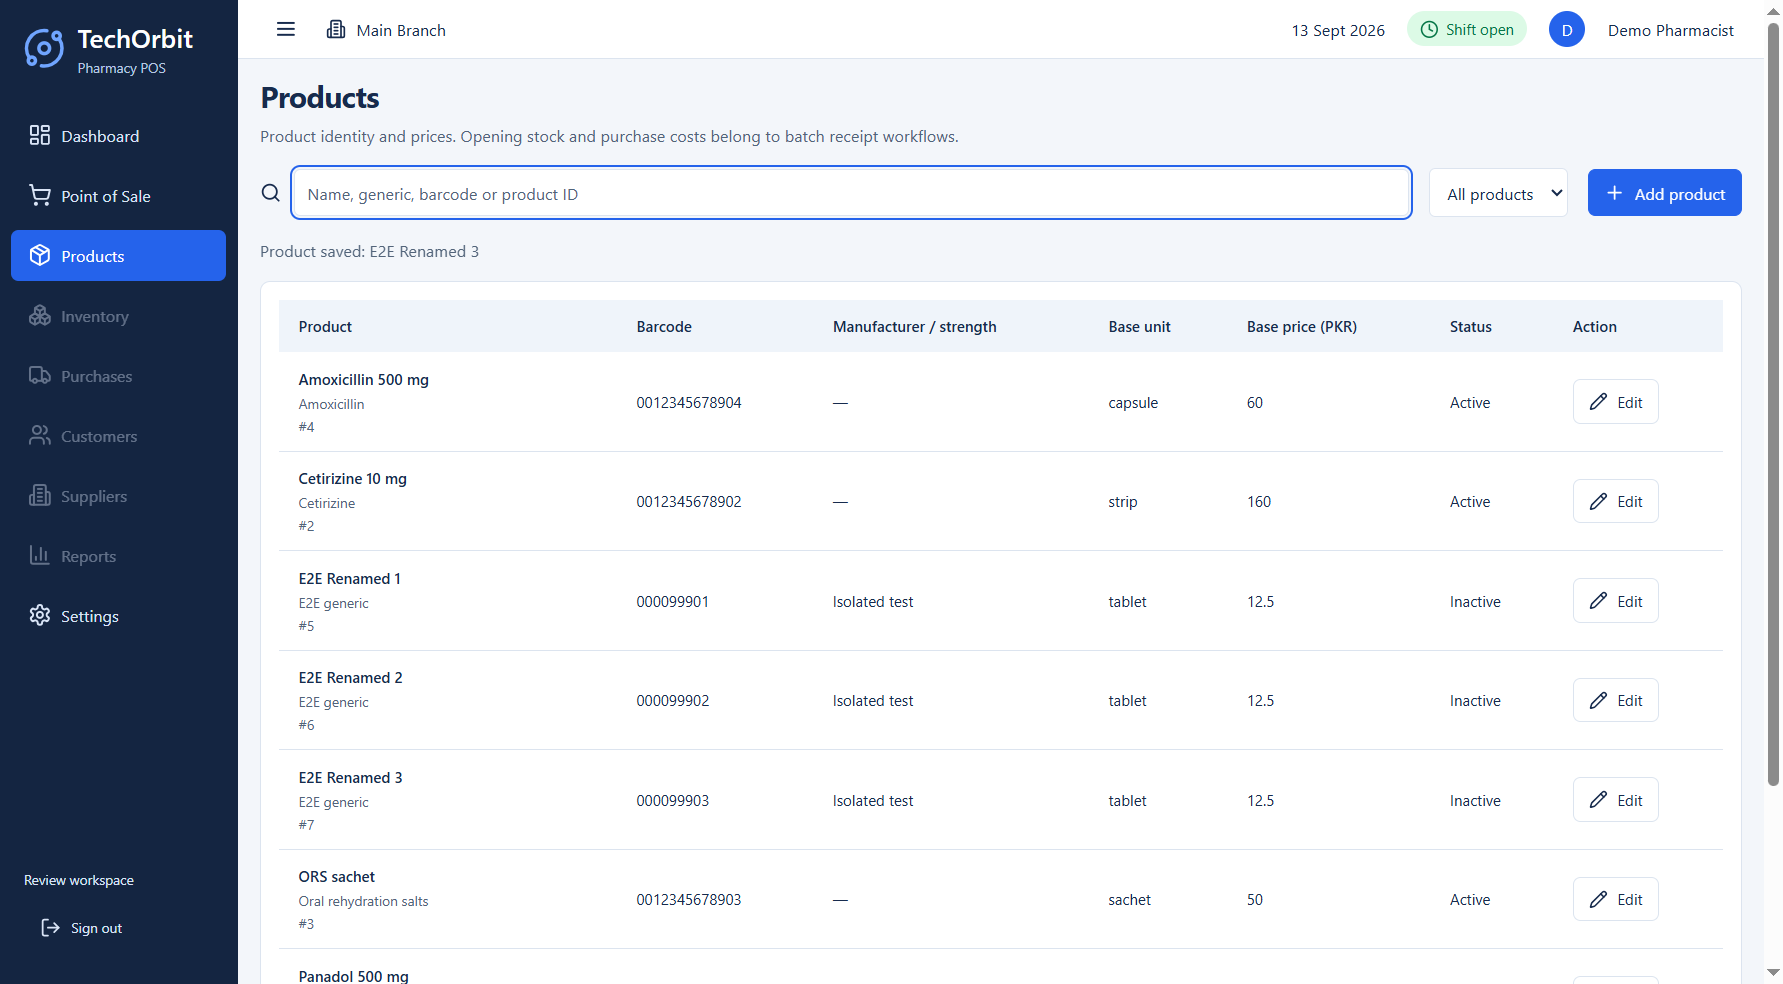
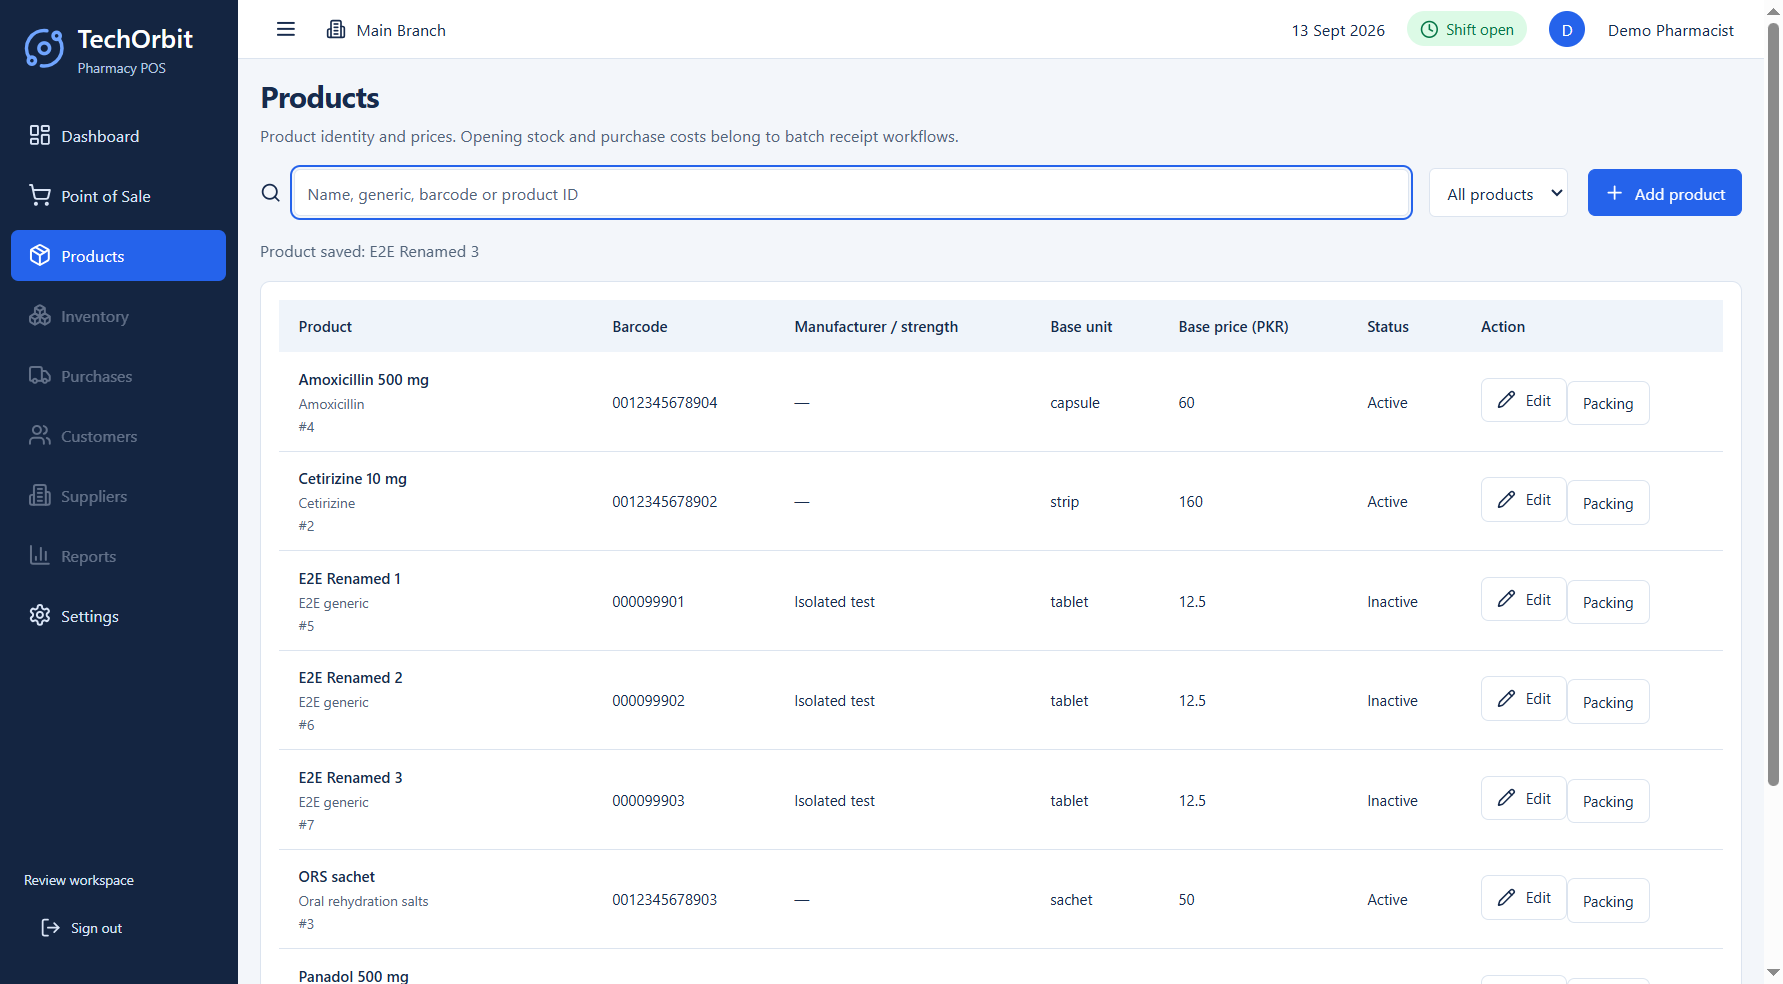
feat(products): configure safe pack ratios and unit prices

diff --git a/modernization/src/Products.tsx b/modernization/src/Products.tsx
@@ -2,10 +2,12 @@ import {useEffect,useRef,useState} from 'react';
 import {Plus,Search,Pencil} from 'lucide-react';
 import type {ProductSummary,ProductMasterResult} from './contracts';
 import {Dialog,money} from './shared';
+import {PackingEditor} from './Packing';
 type Fields=Record<string,string|boolean>;
 const blank=():Fields=>({createKey:'TO-'+crypto.randomUUID(),name:'',barcode:'',genericName:'',manufacturer:'',category:'',productType:'medicine',dosageForm:'Tablet',strength:'',packDescription:'',baseUnit:'tablet',defaultSalePriceMinor:'0',boxSalePriceMinor:'',stripSalePriceMinor:'',minimumStock:'0',reorderLevel:'0',defaultSupplierId:'',prescriptionRequired:false,controlledMedicine:false,gstRateBasisPoints:'0',taxStatus:'exempt',active:true,notes:''});
 export function Products(){
  const [q,setQ]=useState(''),[state,setState]=useState('active'),[page,setPage]=useState(1),[version,reload]=useState(0),[rows,setRows]=useState<ProductSummary[]>([]),[total,setTotal]=useState(0),[loading,setLoading]=useState(true),[error,setError]=useState(''),[editor,setEditor]=useState<Fields|null>(null),[suppliers,setSuppliers]=useState<{id:number;name:string}[]>([]),[busy,setBusy]=useState(false),[saveError,setSaveError]=useState(''),[confirm,setConfirm]=useState(false),[warning,setWarning]=useState(''),[saved,setSaved]=useState('');
+ const [packingId,setPackingId]=useState<number|null>(null);
  const lock=useRef(false);
  useEffect(()=>{let live=true;setLoading(true);setError('');const t=setTimeout(()=>window.pharmacy.productList({q,state,page}).then(r=>{if(live){setRows(r.items);setTotal(r.total)}}).catch(e=>{if(live){setError(e.message);setRows([]);setTotal(0)}}).finally(()=>{if(live)setLoading(false)}),150);return()=>{live=false;clearTimeout(t)}},[q,state,page,version]);
  const open=async(id?:number)=>{setSaveError('');setWarning('');setConfirm(false);try{setSuppliers(await window.pharmacy.productSuppliers());if(id){const result=await window.pharmacy.productDetail({id});const value:Fields={};for(const[k,v]of Object.entries(result.product||{}))value[k]=typeof v==='boolean'?v:v==null?'':String(k.endsWith('PriceMinor')||k==='gstRateBasisPoints'?Number(v)/100:v);setEditor(value)}else setEditor(blank());}catch(e){setError((e as Error).message)}};
@@ -14,6 +16,7 @@ export function Products(){
  const select=(key:string,label:string,values:string[])=><label key={key}>{label}<select aria-label={label} value={String(editor?.[key]||'')} disabled={busy} onChange={e=>change(key,e.target.value)}>{values.map(v=><option key={v} value={v}>{v}</option>)}</select></label>;
  const save=async(event:React.FormEvent)=>{event.preventDefault();if(lock.current||!editor)return;lock.current=true;setBusy(true);setSaveError('');const input:Record<string,unknown>={...editor,confirmDuplicateName:confirm};for(const k of ['defaultSalePriceMinor','boxSalePriceMinor','stripSalePriceMinor','gstRateBasisPoints'])input[k]=editor[k]===''?null:Math.round(Number(editor[k])*100);for(const k of ['minimumStock','reorderLevel'])input[k]=Number(editor[k]);input.defaultSupplierId=editor.defaultSupplierId?Number(editor.defaultSupplierId):null;if(editor.id)input.id=Number(editor.id);
  try{const r:ProductMasterResult=await window.pharmacy.productSave(input);if(r.needsConfirmation){setWarning('An active product has the same name. Check manufacturer and strength before confirming a separate product.');return;}setSaved('Product saved: '+r.product?.name);setEditor(null);reload(v=>v+1);}catch(e){setSaveError((e as Error).message)}finally{lock.current=false;setBusy(false)}};
- return <section className="products-page"><h1>Products</h1><p>Product identity and prices. Opening stock and purchase costs belong to batch receipt workflows.</p><div className="master-toolbar"><label><Search size={17}/><input aria-label="Search products" placeholder="Name, generic, barcode or product ID" value={q} onChange={e=>{setQ(e.target.value);setPage(1)}}/></label><select aria-label="Product status filter" value={state} onChange={e=>{setState(e.target.value);setPage(1)}}><option value="active">Active</option><option value="inactive">Inactive</option><option value="all">All products</option></select><button className="primary" onClick={()=>open()}><Plus size={17}/> Add product</button></div>{error&&<p className="error" role="alert">{error}</p>}{saved&&<p role="status">{saved}</p>}<div className="panel master-table"><table><thead><tr><th>Product</th><th>Barcode</th><th>Manufacturer / strength</th><th>Base unit</th><th>Base price (PKR)</th><th>Status</th><th>Action</th></tr></thead><tbody>{!loading&&rows.map(p=><tr key={p.id}><td><strong>{p.name}</strong><small>{p.generic_name||'—'}</small><small>#{p.id}</small></td><td>{p.barcode||'No barcode'}</td><td>{[p.manufacturer,p.strength].filter(Boolean).join(' · ')||'—'}</td><td>{p.base_unit}</td><td>{money(p.default_sale_price_minor)}</td><td>{p.active?'Active':'Inactive'}</td><td><button aria-label={'Edit '+p.name} onClick={()=>open(p.id)}><Pencil size={15}/> Edit</button></td></tr>)}</tbody></table>{loading?<p role="status">Loading products…</p>:!rows.length&&<p>No products found.</p>}</div><div className="master-pagination"><button disabled={loading||page===1} onClick={()=>setPage(p=>p-1)}>Previous</button><span>{total} products · Page {page} of {Math.max(1,Math.ceil(total/25))}</span><button disabled={loading||page*25>=total} onClick={()=>setPage(p=>p+1)}>Next</button></div>
+ return <section className="products-page"><h1>Products</h1><p>Product identity and prices. Opening stock and purchase costs belong to batch receipt workflows.</p><div className="master-toolbar"><label><Search size={17}/><input aria-label="Search products" placeholder="Name, generic, barcode or product ID" value={q} onChange={e=>{setQ(e.target.value);setPage(1)}}/></label><select aria-label="Product status filter" value={state} onChange={e=>{setState(e.target.value);setPage(1)}}><option value="active">Active</option><option value="inactive">Inactive</option><option value="all">All products</option></select><button className="primary" onClick={()=>open()}><Plus size={17}/> Add product</button></div>{error&&<p className="error" role="alert">{error}</p>}{saved&&<p role="status">{saved}</p>}<div className="panel master-table"><table><thead><tr><th>Product</th><th>Barcode</th><th>Manufacturer / strength</th><th>Base unit</th><th>Base price (PKR)</th><th>Status</th><th>Action</th></tr></thead><tbody>{!loading&&rows.map(p=><tr key={p.id}><td><strong>{p.name}</strong><small>{p.generic_name||'—'}</small><small>#{p.id}</small></td><td>{p.barcode||'No barcode'}</td><td>{[p.manufacturer,p.strength].filter(Boolean).join(' · ')||'—'}</td><td>{p.base_unit}</td><td>{money(p.default_sale_price_minor)}</td><td>{p.active?'Active':'Inactive'}</td><td><button aria-label={'Edit '+p.name} onClick={()=>open(p.id)}><Pencil size={15}/> Edit</button><button aria-label={'Packing '+p.name} onClick={()=>setPackingId(p.id)}>Packing</button></td></tr>)}</tbody></table>{loading?<p role="status">Loading products…</p>:!rows.length&&<p>No products found.</p>}</div><div className="master-pagination"><button disabled={loading||page===1} onClick={()=>setPage(p=>p-1)}>Previous</button><span>{total} products · Page {page} of {Math.max(1,Math.ceil(total/25))}</span><button disabled={loading||page*25>=total} onClick={()=>setPage(p=>p+1)}>Next</button></div>
+ {packingId!==null&&<PackingEditor id={packingId} onClose={()=>setPackingId(null)} onSaved={()=>{setPackingId(null);reload(v=>v+1)}}/>}
  {editor&&<Dialog title={editor.id?'Edit product':'Add product'} onClose={()=>{if(!lock.current)setEditor(null)}}><form className="product-form" onSubmit={save}><p>{editor.id?'Product #'+editor.id+' · Base unit locked to protect existing stock.':'Permanent product ID is generated automatically.'}</p><div className="product-fields">{field('name','Product name','text',true)}{field('barcode','Barcode')}{field('genericName','Generic name')}{field('manufacturer','Manufacturer')}{field('category','Category')}{select('productType','Product type',['medicine','general','cosmetic','device','other'])}{select('dosageForm','Dosage form',['Tablet','Capsule','Syrup','Injection','Cream','Drops','Sachet','Ointment','Suspension','Inhaler','Device','Other'])}{field('strength','Strength')}{field('packDescription','Pack description')}{field('baseUnit','Base unit','text',true)}{field('defaultSalePriceMinor','Base selling price PKR','number',true)}{field('boxSalePriceMinor','Box selling price PKR','number')}{field('stripSalePriceMinor','Strip selling price PKR','number')}{field('minimumStock','Minimum stock (base units)','number',true)}{field('reorderLevel','Reorder level (base units)','number',true)}{select('taxStatus','Tax status',['exempt','taxable'])}{field('gstRateBasisPoints','GST percent','number',true)}<label>Default supplier<select aria-label="Default supplier" value={String(editor.defaultSupplierId)} disabled={busy} onChange={e=>change('defaultSupplierId',e.target.value)}><option value="">None</option>{suppliers.map(s=><option key={s.id} value={s.id}>{s.name}</option>)}</select></label>{field('notes','Notes')}</div><div className="product-flags">{[['active','Active product'],['prescriptionRequired','Prescription required'],['controlledMedicine','Controlled medicine']].map(([k,l])=><label key={k}><input type="checkbox" checked={Boolean(editor[k])} disabled={busy} onChange={e=>change(k,e.target.checked)}/>{l}</label>)}</div><p>Deactivation hides the product from new sales and preserves its history. Pack conversions are configured separately.</p>{warning&&<div className="warning"><p>{warning}</p><label><input type="checkbox" checked={confirm} onChange={e=>setConfirm(e.target.checked)}/>I confirm this is a separate product</label></div>}{saveError&&<p className="error" role="alert">{saveError}</p>}<button type="submit" className="primary" disabled={busy||Boolean(warning&&!confirm)}>{busy?'Saving…':'Save product'}</button></form></Dialog>}</section>
 }

diff --git a/modernization/src/Packing.tsx b/modernization/src/Packing.tsx
@@ -1,0 +1,12 @@
+import {useEffect,useRef,useState} from 'react';
+import {Dialog} from './shared';
+type Unit={unitName:string;baseQuantity:string;price:string;isDefaultSaleUnit:boolean;allowsFractionalQuantity:boolean};
+export function PackingEditor({id,onClose,onSaved}:{id:number;onClose:()=>void;onSaved:()=>void}){
+ const [units,setUnits]=useState<Unit[]>([]),[name,setName]=useState(''),[base,setBase]=useState(''),[stamp,setStamp]=useState(''),[locked,setLocked]=useState(false),[oldNames,setOldNames]=useState<string[]>([]),[error,setError]=useState(''),[busy,setBusy]=useState(false),[source,setSource]=useState(0);
+ const saving=useRef(false);
+ useEffect(()=>{let live=true;window.pharmacy.packingDetail({id}).then(r=>{if(!live)return;setName(String(r.product?.name));setBase(String(r.product?.baseUnit));setStamp(String(r.product?.updatedAt));setLocked(r.historyLocked);setOldNames((r.units||[]).map(u=>u.unit_name));setUnits((r.units||[]).map(u=>({unitName:u.unit_name,baseQuantity:String(u.base_quantity),price:String((u.selling_price_minor??Number(r.product?.defaultSalePriceMinor))/100),isDefaultSaleUnit:Boolean(u.is_default_sale_unit),allowsFractionalQuantity:Boolean(u.allows_fractional_quantity)})));}).catch(e=>{if(live)setError(e.message)});return()=>{live=false}},[id]);
+ const change=(i:number,patch:Partial<Unit>)=>setUnits(rows=>rows.map((u,j)=>j===i?{...u,...patch}:u));
+ const derive=()=>{const s=units[source],ratio=Number(s?.baseQuantity),price=Number(s?.price);if(!s||!s.price||!Number.isFinite(ratio)||ratio<=0||!Number.isFinite(price)||price<0){setError('Enter a valid source unit quantity and price first.');return;}setError('');setUnits(rows=>rows.map(u=>({...u,price:String(Math.round(price*Number(u.baseQuantity)/ratio))})));};
+ const save=async(e:React.FormEvent)=>{e.preventDefault();if(saving.current)return;saving.current=true;setBusy(true);setError('');try{await window.pharmacy.packingSave({id,updatedAt:stamp,units:units.map(u=>({...u,baseQuantity:Number(u.baseQuantity),sellingPriceMinor:Math.round(Number(u.price)*100)}))});onSaved();}catch(e){setError((e as Error).message)}finally{saving.current=false;setBusy(false)}};
+ return <Dialog title={'Packing and prices'+(name?' — '+name:'')} onClose={()=>{if(!saving.current)onClose()}}><form onSubmit={save} className="packing-form"><p>Base unit: <strong>{base||'Loading…'}</strong>. Each quantity below is measured in this base unit. Example: 1 strip = 10 tablets, 1 box = 100 tablets.</p>{locked&&<p className="warning">This product has stock or history. Existing unit names and ratios are locked. New units and future selling prices can be configured without rebasing stock.</p>}<div className="packing-rows">{units.map((u,i)=>{const fixed=locked&&oldNames.includes(u.unitName);return <fieldset key={i} disabled={busy}><legend>Unit {i+1}</legend><label>Unit name<input aria-label={'Unit name '+(i+1)} required value={u.unitName} disabled={fixed||u.unitName===base} onChange={e=>change(i,{unitName:e.target.value})}/></label><label>Base quantity<input aria-label={'Base quantity '+(i+1)} required type="number" min="0.000001" step="any" disabled={fixed||u.unitName===base} value={u.baseQuantity} onChange={e=>change(i,{baseQuantity:e.target.value})}/></label><label>Price PKR<input aria-label={'Unit price '+(i+1)} required type="number" min="0" step="any" value={u.price} onChange={e=>change(i,{price:e.target.value})}/></label><label><input type="radio" name="default-unit" aria-label={'Default unit '+(i+1)} checked={u.isDefaultSaleUnit} onChange={()=>setUnits(rows=>rows.map((x,j)=>({...x,isDefaultSaleUnit:i===j})))}/>Default</label><label><input type="checkbox" aria-label={'Allow fractional '+(i+1)} checked={u.allowsFractionalQuantity} onChange={e=>change(i,{allowsFractionalQuantity:e.target.checked})}/>Fractional</label><button type="button" aria-label={'Remove unit '+(i+1)} disabled={fixed||u.unitName===base} onClick={()=>{setUnits(rows=>rows.filter((_,j)=>j!==i));setSource(0)}}>Remove</button></fieldset>})}</div><button type="button" disabled={busy||!stamp||units.length>=20} onClick={()=>setUnits(rows=>[...rows,{unitName:'',baseQuantity:'1',price:'0',isDefaultSaleUnit:false,allowsFractionalQuantity:false}])}>Add unit</button><div className="packing-calculate"><label>Calculate from<select aria-label="Price source unit" value={source} onChange={e=>setSource(Number(e.target.value))}>{units.map((u,i)=><option value={i} key={i}>{u.unitName||'Unit '+(i+1)}</option>)}</select></label><button type="button" disabled={busy||!units.length} onClick={derive}>Calculate other prices</button></div><p>Calculated and saved prices round to whole PKR. Calculating replaces the displayed prices; you can override them before saving. Recalculate explicitly after changing ratios or the source price. Sealed units and capsules cannot be sold fractionally.</p>{error&&<p role="alert" className="error">{error}</p>}<button className="primary" type="submit" disabled={busy||!stamp}>{busy?'Saving…':'Save packing'}</button></form></Dialog>;
+}

diff --git a/modernization/src/styles.css b/modernization/src/styles.css
@@ -1039,3 +1039,7 @@ body:has(.scrim) {
 .master-table{overflow:auto}.master-table table{width:100%;border-collapse:collapse}.master-table td,.master-table th{padding:13px 16px;text-align:left}.master-table td small{display:block;margin-top:4px}.master-table td:first-child{min-width:200px}
 .product-fields{display:grid;grid-template-columns:repeat(2,minmax(0,1fr));gap:15px 22px}.product-fields label{display:flex;flex-direction:column;gap:6px}.product-fields input,.product-fields select{width:100%;min-width:0}.product-flags label{display:flex;align-items:center;gap:8px}.product-form>p{line-height:1.5}.scrim:has(.product-form) .dialog{width:min(940px,95vw);max-height:90vh;overflow:auto}.product-form>button{margin-top:12px}
 @media(max-width:700px){.product-fields{grid-template-columns:1fr}}
+.scrim:has(.packing-form) .dialog{width:min(1000px,95vw);max-height:90vh;overflow:auto}
+.packing-rows fieldset{display:grid;grid-template-columns:minmax(0,1.2fr) minmax(0,1fr) minmax(0,1fr) auto auto auto;gap:12px;align-items:end;border:1px solid var(--border);margin:12px 0;padding:12px;min-width:0}
+.packing-form label{display:flex;flex-direction:column;gap:7px;min-width:0}.packing-form input,.packing-form select{max-width:100%;min-width:0}.packing-form input:not([type=checkbox]):not([type=radio]){width:100%}.packing-calculate{display:flex;gap:12px;align-items:end;margin-top:16px}
+@media(max-width:1100px){.packing-rows fieldset{grid-template-columns:1fr 1fr 1fr}}

diff --git a/modernization/src/contracts.ts b/modernization/src/contracts.ts
@@ -97,6 +97,8 @@ export interface DashboardData {
   recent: any[];
 }
 export interface Api {
+  packingDetail(input:{id:number}):Promise<ProductMasterResult & {historyLocked:boolean}>;
+  packingSave(input:Record<string,unknown>):Promise<ProductMasterResult & {historyLocked:boolean}>;
   productList(input:{q:string;state:string;page:number}):Promise<{items:ProductSummary[];total:number;page:number;pageSize:number}>;
   productDetail(input:{id:number}):Promise<ProductMasterResult>;
   productSave(input:Record<string,unknown>):Promise<ProductMasterResult>;

diff --git a/docs/p030-packing.md b/docs/p030-packing.md
@@ -1,0 +1,25 @@
+# P030 Packing and prices — 2026-09-13
+
+## Delivered
+
+Products rows open a packing editor. Each configured unit has its base-quantity multiplier, explicit selling price, default-sale flag and fractional policy. Ratios are expressed against the permanent product base unit; no manufacturer values are inferred. Box/strip/pack and custom units share the product barcode. The POS uses the saved default and supports the configured unit selector.
+
+Select a price source (for example box), enter its ratio and price, and use Calculate other prices. The displayed unit prices are calculated proportionally and rounded to whole PKR. They remain editable before save. This is an explicit calculator, not a persistent formula link: recalculate after changing a ratio or source price. Packing saves also round prices to whole PKR. Existing general Product Master/import price precision is not silently rewritten; cross-workflow pricing/rounding acceptance remains with P037 and import packages.
+
+Only settings.manage roles may read/write packing. Server validation requires unique names, a base multiplier of exactly one, one default, bounded positive multipliers, valid nonnegative prices and boolean policies. Recognized sealed unit names (including compound names ending in pack/box/etc.) and capsules reject fractional sales. Custom dispensing-unit policies must be configured responsibly; product-specific clinical suitability is not inferred from unit names.
+
+Any batch, movement, sale item or purchase item locks existing unit names and multipliers. New units, default selection and future prices can be configured without rebasing recorded stock. Saves are transactional, audited and reject stale editors. Historical sale snapshots are not repriced.
+
+## Verification
+
+- TypeScript/Vite build passed.
+- 9 modern automated tests passed. P030 checks stock conservation, posted base quantity, immutable old sale price snapshot, stale edits, locked history, duplicate units, sealed/fractional rejection, role checks and complete rollback on audit failure.
+- 3 actual Electron tests passed (20.7 seconds): prior Dashboard/POS, P029 product repetition and P030 packing-to-sale flow.
+- P030 E2E calculates 20-sachet bulk pack PKR 900, existing 100-sachet box PKR 4500, persists configuration, selects the new default on barcode scan and reaches posted receipt.
+- Root regression rerun: 31 suites / 99 tests passed (39.699 seconds).
+- Screenshot review found horizontal overflow. Widened dialog and constrained grid columns; final E2E explicitly checks no horizontal overflow. Light and dark screenshots visually reviewed in modernization/evidence/packing-light.png and packing-dark.png.
+- No live data or user cart was touched. No schema migration was necessary. Demo ratios remain examples; production mapping is a separate owner-verified task.
+
+## Remaining
+
+P031 generic alternatives is next. Full master three-run signoff, import pricing consistency, production pack mapping, hardware checks and release approval remain pending. This package does not approve clinical substitutions or production readiness.

diff --git a/docs/test-results.md b/docs/test-results.md
@@ -1,5 +1,12 @@
 # Test Results
 
+## 2026-09-13 - P029 / P030 modern application regression
+
+- Final P030 baseline: root 31 suites / 99 tests passed; modern 9 tests passed; TypeScript/Vite build passed; 3 actual Electron tests passed (20.7 seconds).
+- Product editor performs three create/edit/deactivate repetitions. Packing E2E configures a custom pack, derives prices, reopens persisted values, checks dark mode, scans the configured default and posts a sale/receipt.
+- Fixed a product-test filter expectation, base/pack price conflict validation and packing-dialog horizontal overflow; retested. Final light/dark evidence visually inspected.
+- See [P029 evidence](p029-product-master.md) and [P030 evidence](p030-packing.md) for scope and limitations. Full 85-scenario three-run acceptance and physical hardware tests remain open.
+
 ## 2026-09-13 - Pre-UI readiness gate
 
 - Customer accounts/returns, stock adjustments, backup/restore, session security and reconciliation verified.

diff --git a/docs/CHANGELOG.md b/docs/CHANGELOG.md
@@ -1,5 +1,11 @@
 # Changelog
 
+## 2026-09-13 - Modern Product Master and packing (P029 / P030)
+
+- P029: searchable product list/editor, duplicate warnings, preserved inactive history, audited transactional saves and role checks. Evidence: [P029](p029-product-master.md).
+- P030: per-product unit ratios, default sale unit, whole-PKR price calculation from a selected source unit, manual overrides and fractional/sealed-unit validation. Existing stock/history locks old ratios. Evidence: [P030](p030-packing.md).
+- Both are isolated modern review-app features, not a production data cutover or full release signoff.
+
 ## 2026-09-13 - Pre-UI backend readiness
 
 - Added customer receivable collection and batch-traceable customer returns.
